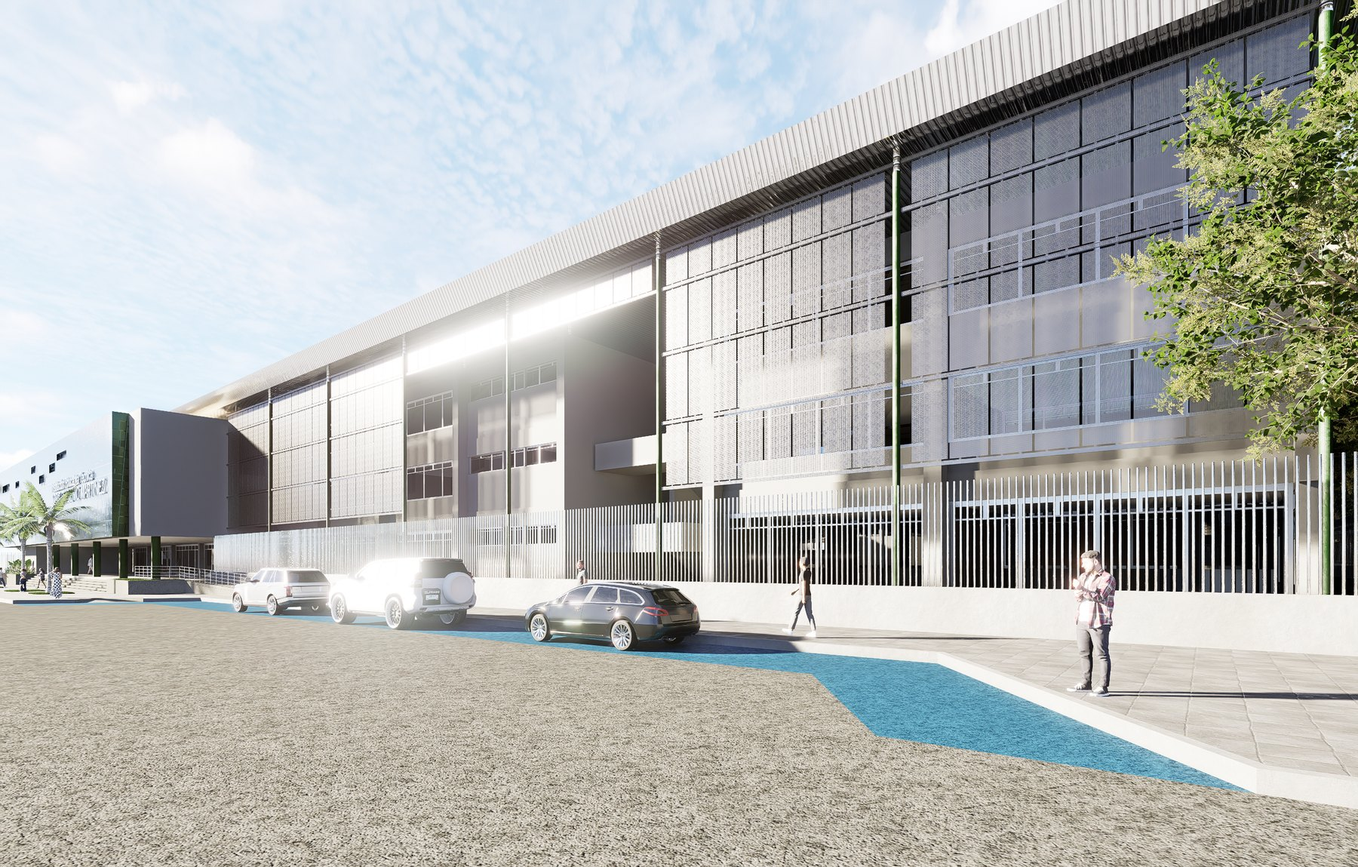
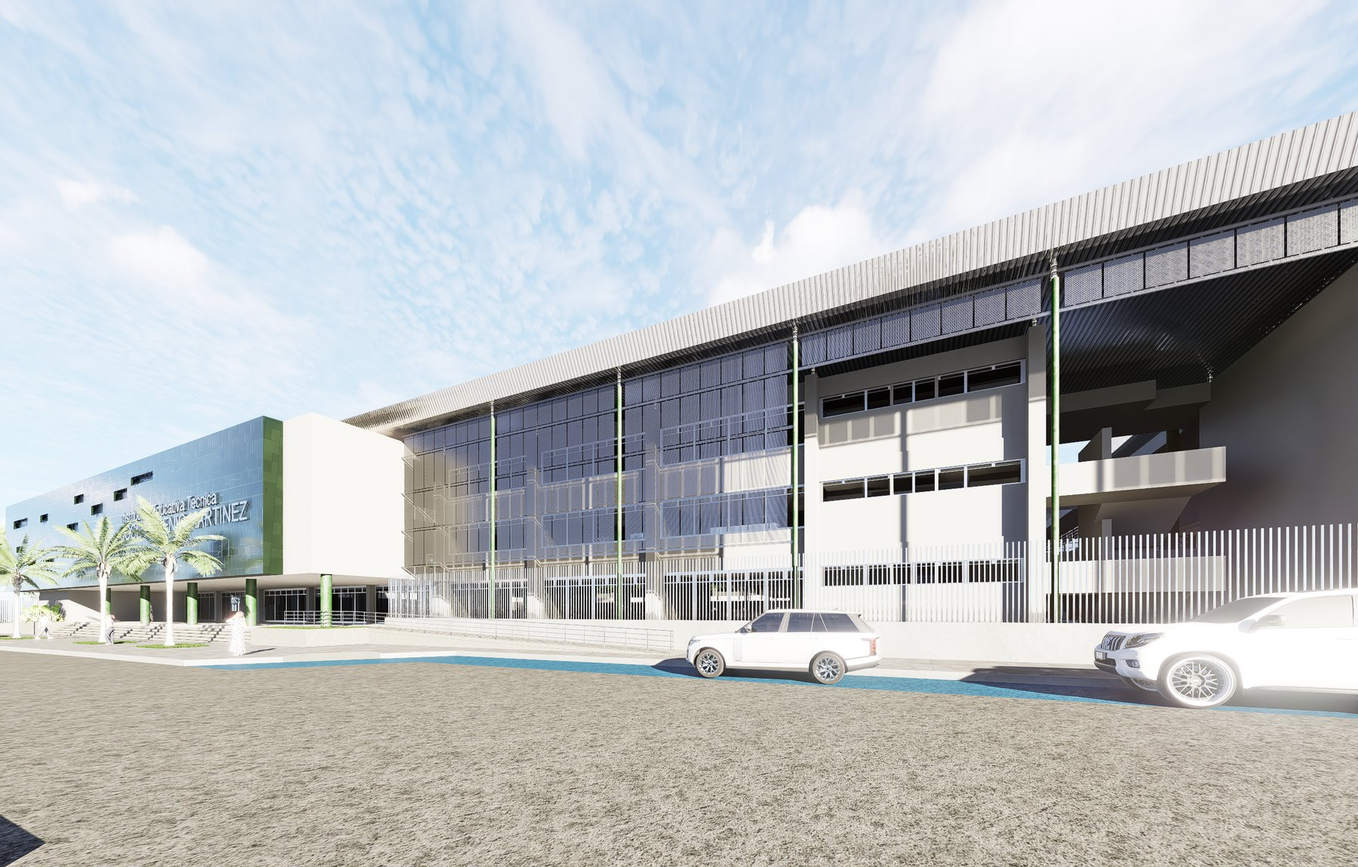
Correcciones de Ulises y carga más rápida en celular
- Proyectos: 7 destacados; Corpocesar a modelados (6.616 m²); CAC y Bomberos a diseñados;
  Multicampus en obra; numeración corrida; portadas pedidas por Ulises.
- Vivienda, Remodelación, Comercial y El arquitecto aprobadas: entran al sitemap.
- Rendimiento: dibujo y aguada del héroe después de la carga, sin salto de diseño;
  lib/lazy.ts compartido; portadas de Proyectos por cercanía; Lighthouse móvil 95–100.
- Accesibilidad 100: contraste, nombres de tarjetas, alt de logos, tabpanel.
- vercel.json: caché de fuentes e imágenes de marca, nosniff y Referrer-Policy.

diff --git a/src/lib/proyectos.ts b/src/lib/proyectos.ts
@@ -1,7 +1,9 @@
 /**
  * Proyectos de Galezo Studio para la página /proyectos, tal cual el "portafolio final" de Ulises (2026-11-09):
- * mismo orden y número, misma sección (categoría) y la ficha de cada uno (ubicación, contratación, año, área,
- * estado y descripción). En los textos solo se corrigieron tildes y erratas evidentes.
+ * misma sección (categoría) y la ficha de cada uno (ubicación, contratación, año, área, estado y descripción).
+ * En los textos solo se corrigieron tildes y erratas evidentes. Correcciones de Ulises (2026-11-12): Corpocesar pasa a
+ * modelados (6.616 m²), el CAC y la Estación de Bomberos a diseñados, Multicampus sigue en obra. Dentro de cada sección
+ * van por año, como el portafolio, y la numeración es corrida (1 a 37).
  * Imágenes en src/assets/proyectos/<slug>/NN-obra|render|antes.jpg (la primera es la portada): las del portafolio,
  * y para los proyectos que ya estaban, las de la carpeta PROYECTOS 2.
  *
@@ -54,45 +56,44 @@ export const proyectos: Proyecto[] = [
   { n: 8, slug: 'corales', name: 'Pórtico Conjunto Residencial Los Corales', tipo: 'Acceso de conjunto', cat: 'construido', estado: 'Diseñado / Construido', city: 'Valledupar, Cesar', client: 'Unidad Inmobiliaria Los Corales', year: '2023', m2: '64', what: 'Demolición y construcción de un nuevo pórtico de acceso vehicular y peatonal para el Conjunto Residencial Cerrado Los Corales. Nuevo diseño aporticado contemporáneo, construcción de mampostería, instalación de portones nuevos y eléctricos, remodelación de la garita de vigilancia, instalación de luminarias, adoquines, jardines y fachaletas en muro acordes a las viviendas del conjunto. Construido por mi empresa.' },
   { n: 9, slug: 'mirador', name: 'Mirador al Monumento del Santo Eccehomo', tipo: 'Espacio público', cat: 'construido', estado: 'Diseñado / Construido', city: 'Valledupar, Cesar', client: 'Gobernación del Cesar', year: '2023', m2: '1.988', what: 'Diseño arquitectónico y ornamental para terminar la obra del mirador al monumento Santo Eccehomo dentro del polígono de área sustraída del cerro, ya que este se encontraba abandonado en etapa de obra gris desde el año 2008.' },
   { n: 10, slug: 'jose-eugenio', name: 'Institución Educativa José Eugenio Martínez', tipo: 'Colegio', cat: 'construido', estado: 'Diseñado / Construido', city: 'Valledupar, Cesar', client: 'Gobernación del Cesar', year: '2024', m2: '15.097', what: claustro('la Institución Educativa José Eugenio Martínez') },
-  { n: 11, slug: 'corpocesar', name: 'Levantamiento de sede de Corpocesar CAVFFS', tipo: 'Levantamiento', cat: 'construido', estado: 'Levantado', city: 'Valledupar, Cesar', client: 'Consorcio Atención Silvestre', year: '2024', m2: '15.097', what: 'Levantamiento de la infraestructura existente de la sede de Corpocesar CAVFFS, para modificaciones futuras.' },
 
   // ---------- Diseñados y en construcción ----------
-  { n: 12, slug: 'vivienda-cerro', name: 'Vivienda Unifamiliar Sobre Cerro', tipo: 'Vivienda', cat: 'en-obra', estado: 'Diseñado / En construcción', city: 'Valledupar, Cesar', client: 'Particular', year: '2025', m2: '900', what: 'Diseño arquitectónico de una vivienda unifamiliar de 5 pisos, que incluye seminiveles ya que el proyecto está ubicado en un cerro. Tiene 900 m² de área construida, incluye 5 habitaciones con baños internos, estudio, oficina, gimnasio, sala, comedor, recibo, 2 zonas de parqueo, baños sociales, terrazas tipo balcón, BBQ y una ampliación de la fachada con la mitad del lote vacío para futura expansión.' },
-  { n: 13, slug: 'multicampus', name: 'Multicampus Universitario', tipo: 'Educación superior', cat: 'en-obra', estado: 'Diseñado / Construido', city: 'Codazzi, Cesar', client: 'Gobernación del Cesar', year: '2025', m2: '4.050', what: 'Diseño arquitectónico de un campus universitario de 1 piso que contiene 11 aulas de clase, 1 auditorio, 2 aulas de informática, biblioteca, zona administrativa y de servicios.' },
-  { n: 14, slug: 'ccmv-banos', name: 'Diseño de interiores baños del CCMV', tipo: 'Diseño de interiores', cat: 'en-obra', estado: 'Diseñado / Construido', city: 'Valledupar, Cesar', client: 'A Construir', year: '2025', m2: '250', what: ccmvBanos('Tipos: rústico, boho-chic, abstracto o artístico, contemporáneo-industrial y exterior.') },
-  { n: 15, slug: 'ccmv-hall', name: 'Diseño de interiores del Hall de la Fama, CCMV', tipo: 'Diseño de interiores', cat: 'en-obra', estado: 'Diseñado / Construido', city: 'Valledupar, Cesar', client: 'A Construir', year: '2025', m2: '1.200', what: 'Diseño de interiores para el Centro Cultural de la Música Vallenata del Salón de la Fama, en este estarán ubicadas las esculturas de cera de todos los artistas vallenatos. El museo se divide en 3 zonas: zona de juglares, donde están los pioneros y más antiguos con un diseño de la época; zona de los 5 grandes, donde estarán los más grandes artistas del género, con un diseño tipo disco de los 80, y zona de expansión, donde se encuentran el resto de intérpretes, con un diseño contemporáneo futurista. Aparte del diseño de pasillos que conectan las 3 zonas.' },
-  { n: 16, slug: 'coliseo', name: 'Coliseo de Tenis de Mesa', tipo: 'Escenario deportivo', cat: 'en-obra', estado: 'Diseñado / En construcción', city: 'Valledupar, Cesar', client: 'Gobernación del Cesar', year: '2025', m2: '8.959', what: 'Diseño arquitectónico y formulación de una infraestructura deportiva tipo caja de cristal para tenis de mesa, de alta calidad, sostenible, innovadora y accesible, que cumple con los requisitos técnicos y reglamentarios nacionales e internacionales para la práctica y competición de la disciplina, impulsando el desarrollo deportivo y social de la región.' },
+  { n: 11, slug: 'vivienda-cerro', name: 'Vivienda Unifamiliar Sobre Cerro', tipo: 'Vivienda', cat: 'en-obra', estado: 'Diseñado / En construcción', city: 'Valledupar, Cesar', client: 'Particular', year: '2025', m2: '900', what: 'Diseño arquitectónico de una vivienda unifamiliar de 5 pisos, que incluye seminiveles ya que el proyecto está ubicado en un cerro. Tiene 900 m² de área construida, incluye 5 habitaciones con baños internos, estudio, oficina, gimnasio, sala, comedor, recibo, 2 zonas de parqueo, baños sociales, terrazas tipo balcón, BBQ y una ampliación de la fachada con la mitad del lote vacío para futura expansión.' },
+  { n: 12, slug: 'multicampus', name: 'Multicampus Universitario', tipo: 'Educación superior', cat: 'en-obra', estado: 'Diseñado / En construcción', city: 'Codazzi, Cesar', client: 'Gobernación del Cesar', year: '2025', m2: '4.050', what: 'Diseño arquitectónico de un campus universitario de 1 piso que contiene 11 aulas de clase, 1 auditorio, 2 aulas de informática, biblioteca, zona administrativa y de servicios.' },
+  { n: 13, slug: 'ccmv-banos', name: 'Diseño de interiores baños del CCMV', tipo: 'Diseño de interiores', cat: 'en-obra', estado: 'Diseñado / Construido', city: 'Valledupar, Cesar', client: 'A Construir', year: '2025', m2: '250', what: ccmvBanos('Tipos: rústico, boho-chic, abstracto o artístico, contemporáneo-industrial y exterior.') },
+  { n: 14, slug: 'ccmv-hall', name: 'Diseño de interiores del Hall de la Fama, CCMV', tipo: 'Diseño de interiores', cat: 'en-obra', estado: 'Diseñado / Construido', city: 'Valledupar, Cesar', client: 'A Construir', year: '2025', m2: '1.200', what: 'Diseño de interiores para el Centro Cultural de la Música Vallenata del Salón de la Fama, en este estarán ubicadas las esculturas de cera de todos los artistas vallenatos. El museo se divide en 3 zonas: zona de juglares, donde están los pioneros y más antiguos con un diseño de la época; zona de los 5 grandes, donde estarán los más grandes artistas del género, con un diseño tipo disco de los 80, y zona de expansión, donde se encuentran el resto de intérpretes, con un diseño contemporáneo futurista. Aparte del diseño de pasillos que conectan las 3 zonas.' },
+  { n: 15, slug: 'coliseo', name: 'Coliseo de Tenis de Mesa', tipo: 'Escenario deportivo', cat: 'en-obra', estado: 'Diseñado / En construcción', city: 'Valledupar, Cesar', client: 'Gobernación del Cesar', year: '2025', m2: '8.959', what: 'Diseño arquitectónico y formulación de una infraestructura deportiva tipo caja de cristal para tenis de mesa, de alta calidad, sostenible, innovadora y accesible, que cumple con los requisitos técnicos y reglamentarios nacionales e internacionales para la práctica y competición de la disciplina, impulsando el desarrollo deportivo y social de la región.' },
 
   // ---------- Diseñados ----------
-  { n: 17, slug: 'museo-juglares', name: 'Museo de Juglares', tipo: 'Cultural', cat: 'disenado', estado: 'Diseñado', city: 'Urumita, La Guajira', client: 'Particular', year: '2021', m2: '1.600', what: 'Diseño arquitectónico de un museo para exposiciones de la cultura vallenata, incluye lobby, zona de exposición, auditorio, cafetería y baños.' },
-  { n: 18, slug: 'plazas-el-banco', name: 'Renovación urbana de las plazas de la Catedral, José Barros y Telecom', tipo: 'Espacio público', cat: 'disenado', estado: 'Diseñado', city: 'El Banco, Magdalena', client: banco, year: '2022', m2: '2.400', what: `Rediseño de plazas en El Banco, Magdalena. ${plazas}` },
-  { n: 19, slug: 'plaza-roja', name: 'Renovación urbana de la Plaza Roja', tipo: 'Espacio público', cat: 'disenado', estado: 'Diseñado', city: 'El Banco, Magdalena', client: banco, year: '2022', m2: '2.000', what: `Rediseño de plaza en El Banco, Magdalena. ${plazas}` },
-  { n: 20, slug: 'plaza-mama-suraya', name: 'Renovación urbana de la Plaza Mamá Suraya', tipo: 'Espacio público', cat: 'disenado', estado: 'Diseñado', city: 'El Banco, Magdalena', client: banco, year: '2022', m2: '2.500', what: `Rediseño de plaza en El Banco, Magdalena. ${plazas}` },
-  { n: 21, slug: 'muelle-chalupas', name: 'Renovación urbana del Muelle de Chalupas', tipo: 'Espacio público', cat: 'disenado', estado: 'Diseñado', city: 'El Banco, Magdalena', client: banco, year: '2022', m2: '545', what: `Rediseño del espacio público del muelle de chalupas en El Banco, Magdalena. ${plazas}` },
-  { n: 22, slug: 'vivienda-dibulla', name: 'Vivienda Unifamiliar de 3 pisos', tipo: 'Vivienda', cat: 'disenado', estado: 'Diseñado', city: 'Dibulla, La Guajira', client: 'Particular', year: '2022', m2: '500', what: 'Diseño arquitectónico de una vivienda unifamiliar de 3 pisos.' },
-  { n: 23, slug: 'zona-social-valleyville', name: 'Zona Social Campestre Valleyville', tipo: 'Vivienda campestre', cat: 'disenado', estado: 'Diseñado', city: 'San Diego, Cesar', client: 'Vive Ámbar', year: '2023', m2: '1.200', what: 'Diseño arquitectónico de un predio social campestre que incluye habitaciones, quiosco, piscina y BBQ.' },
-  { n: 24, slug: 'complejo-tamalameque', name: 'Complejo Recreo-Deportivo', tipo: 'Escenario deportivo', cat: 'disenado', estado: 'Diseñado', city: 'Tamalameque, Cesar', client: 'HRS Ingeniería', year: '2023', m2: '30.200', what: 'Diseño arquitectónico de un complejo recreo-deportivo interdisciplinario. Incluye 2 canchas multifuncionales, 1 cancha de fútbol, gimnasio biosaludable, plaza de eventos, plazoleta gastronómica, parques infantiles y senderos ecológicos.' },
-  { n: 25, slug: 'infraestructura-educativa-tipo', name: 'Infraestructura Educativa Tipo', tipo: 'Colegio', cat: 'disenado', estado: 'Diseñado', city: 'Sin ubicación exacta', client: 'Particular', year: '2024', m2: '2.200', what: 'Diseño arquitectónico de un bloque tipo para replicar en instituciones educativas. Diseño contemporáneo de 2 pisos con capacidad para 11 aulas, zona administrativa y de servicios.' },
-  { n: 26, slug: 'centro-integral-el-plan', name: 'Centro Integral Administrativo', tipo: 'Institucional', cat: 'disenado', estado: 'Diseñado', city: 'El Plan, La Jagua del Pilar', client: 'HRS Ingeniería', year: '2024', m2: '800', what: 'Diseño arquitectónico de centro integral administrativo de 1 piso que contiene área de exposiciones temporales, salones de música, auditorio, biblioteca, zona administrativa e inspección de policía.' },
-  { n: 27, slug: 'complejo-padel', name: 'Complejo de Pádel', tipo: 'Escenario deportivo', cat: 'disenado', estado: 'Diseñado', city: 'Valledupar, Cesar', client: 'HRS Ingeniería', year: '2024', m2: '1.400', what: 'Diseño arquitectónico de un complejo recreodeportivo de pádel. Incluye 4 canchas, 2 cubiertas y 2 sin cubierta, bar deportivo, baños, taquilla - venta y parqueaderos.' },
-  { n: 28, slug: 'gasolineras-terpel', name: 'Gasolineras Terpel', tipo: 'Comercial', cat: 'disenado', estado: 'Diseñado', city: 'Valledupar, Cesar', client: 'Particular', year: '2024', m2: '3.000', what: 'Diseño arquitectónico de varias gasolineras en la ciudad de Valledupar, teniendo en cuenta los diseños de los módulos, estructura y cubierta Terpel.' },
+  { n: 16, slug: 'museo-juglares', name: 'Museo de Juglares', tipo: 'Cultural', cat: 'disenado', estado: 'Diseñado', city: 'Urumita, La Guajira', client: 'Particular', year: '2021', m2: '1.600', what: 'Diseño arquitectónico de un museo para exposiciones de la cultura vallenata, incluye lobby, zona de exposición, auditorio, cafetería y baños.' },
+  { n: 17, slug: 'plazas-el-banco', name: 'Renovación urbana de las plazas de la Catedral, José Barros y Telecom', tipo: 'Espacio público', cat: 'disenado', estado: 'Diseñado', city: 'El Banco, Magdalena', client: banco, year: '2022', m2: '2.400', what: `Rediseño de plazas en El Banco, Magdalena. ${plazas}` },
+  { n: 18, slug: 'plaza-roja', name: 'Renovación urbana de la Plaza Roja', tipo: 'Espacio público', cat: 'disenado', estado: 'Diseñado', city: 'El Banco, Magdalena', client: banco, year: '2022', m2: '2.000', what: `Rediseño de plaza en El Banco, Magdalena. ${plazas}` },
+  { n: 19, slug: 'plaza-mama-suraya', name: 'Renovación urbana de la Plaza Mamá Suraya', tipo: 'Espacio público', cat: 'disenado', estado: 'Diseñado', city: 'El Banco, Magdalena', client: banco, year: '2022', m2: '2.500', what: `Rediseño de plaza en El Banco, Magdalena. ${plazas}` },
+  { n: 20, slug: 'muelle-chalupas', name: 'Renovación urbana del Muelle de Chalupas', tipo: 'Espacio público', cat: 'disenado', estado: 'Diseñado', city: 'El Banco, Magdalena', client: banco, year: '2022', m2: '545', what: `Rediseño del espacio público del muelle de chalupas en El Banco, Magdalena. ${plazas}` },
+  { n: 21, slug: 'vivienda-dibulla', name: 'Vivienda Unifamiliar de 3 pisos', tipo: 'Vivienda', cat: 'disenado', estado: 'Diseñado', city: 'Dibulla, La Guajira', client: 'Particular', year: '2022', m2: '500', what: 'Diseño arquitectónico de una vivienda unifamiliar de 3 pisos.' },
+  { n: 22, slug: 'zona-social-valleyville', name: 'Zona Social Campestre Valleyville', tipo: 'Vivienda campestre', cat: 'disenado', estado: 'Diseñado', city: 'San Diego, Cesar', client: 'Vive Ámbar', year: '2023', m2: '1.200', what: 'Diseño arquitectónico de un predio social campestre que incluye habitaciones, quiosco, piscina y BBQ.' },
+  { n: 23, slug: 'complejo-tamalameque', name: 'Complejo Recreo-Deportivo', tipo: 'Escenario deportivo', cat: 'disenado', estado: 'Diseñado', city: 'Tamalameque, Cesar', client: 'HRS Ingeniería', year: '2023', m2: '30.200', what: 'Diseño arquitectónico de un complejo recreo-deportivo interdisciplinario. Incluye 2 canchas multifuncionales, 1 cancha de fútbol, gimnasio biosaludable, plaza de eventos, plazoleta gastronómica, parques infantiles y senderos ecológicos.' },
+  { n: 24, slug: 'infraestructura-educativa-tipo', name: 'Infraestructura Educativa Tipo', tipo: 'Colegio', cat: 'disenado', estado: 'Diseñado', city: 'Sin ubicación exacta', client: 'Particular', year: '2024', m2: '2.200', what: 'Diseño arquitectónico de un bloque tipo para replicar en instituciones educativas. Diseño contemporáneo de 2 pisos con capacidad para 11 aulas, zona administrativa y de servicios.' },
+  { n: 25, slug: 'centro-integral-el-plan', name: 'Centro Integral Administrativo', tipo: 'Institucional', cat: 'disenado', estado: 'Diseñado', city: 'El Plan, La Jagua del Pilar', client: 'HRS Ingeniería', year: '2024', m2: '800', what: 'Diseño arquitectónico de centro integral administrativo de 1 piso que contiene área de exposiciones temporales, salones de música, auditorio, biblioteca, zona administrativa e inspección de policía.' },
+  { n: 26, slug: 'complejo-padel', name: 'Complejo de Pádel', tipo: 'Escenario deportivo', cat: 'disenado', estado: 'Diseñado', city: 'Valledupar, Cesar', client: 'HRS Ingeniería', year: '2024', m2: '1.400', what: 'Diseño arquitectónico de un complejo recreodeportivo de pádel. Incluye 4 canchas, 2 cubiertas y 2 sin cubierta, bar deportivo, baños, taquilla - venta y parqueaderos.' },
+  { n: 27, slug: 'gasolineras-terpel', name: 'Gasolineras Terpel', tipo: 'Comercial', cat: 'disenado', estado: 'Diseñado', city: 'Valledupar, Cesar', client: 'Particular', year: '2024', m2: '3.000', what: 'Diseño arquitectónico de varias gasolineras en la ciudad de Valledupar, teniendo en cuenta los diseños de los módulos, estructura y cubierta Terpel.' },
+  { n: 28, slug: 'cac-el-banco', name: 'Centro de Atención al Ciudadano', tipo: 'Institucional', cat: 'disenado', estado: 'Diseñado', city: 'El Banco, Magdalena', client: 'Particular', year: '2024', m2: '3.000', what: 'Modelado 3D arquitectónico, estructural, renderizado y elaboración de la edificación de 3 pisos del CAC en El Banco, Magdalena.' },
   { n: 29, slug: 'umng-becerril', name: 'Campus de la Universidad Militar Nueva Granada', tipo: 'Educación superior', cat: 'disenado', estado: 'Diseñado', city: 'Becerril, Cesar', client: 'HRS Ingeniería', year: '2025', m2: '30.000', what: 'Diseño arquitectónico y formulación de una nueva infraestructura para la Universidad Militar Nueva Granada en Becerril, teniendo en cuenta los espacios requeridos por el plantel y los materiales característicos de sus sedes. Dos pisos donde la volumetría del edificio responde a un esquema lineal, que permite articular patios internos, facilitar la ventilación cruzada y promover el aprovechamiento de la luz natural.' },
   { n: 30, slug: 'sendero-cerro-estados-unidos', name: 'Sendero Peatonal y Mirador en Cerro Estados Unidos', tipo: 'Espacio público', cat: 'disenado', estado: 'Diseñado', city: 'Becerril, Cesar', client: 'Particular', year: '2025', m2: '600', what: 'Diseño en cerro de sendero peatonal empedrado, y mirador con letras ornamentales.' },
+  { n: 31, slug: 'bomberos-bosconia', name: 'Estación de Bomberos', tipo: 'Institucional', cat: 'disenado', estado: 'Diseñado', city: 'Bosconia, Cesar', client: 'HRS Ingeniería', year: '2026', m2: '1.695', what: 'Modelado 3D arquitectónico y estructural de una estación de bomberos tipo II, modificación de espacios internos y renderizado.' },
 
   // ---------- Modelados y renderizados ----------
-  { n: 31, slug: 'auditorio-el-molino', name: 'Auditorio', tipo: 'Cultural', cat: 'modelado', estado: 'Modelado / Renderizado', city: 'El Molino, La Guajira', client: 'Marbal Ingeniería SAS', year: '2021', m2: '400', what: 'Modelado 3D y renderizado de un auditorio para eventos en El Molino, La Guajira.' },
-  { n: 32, slug: 'coliseo-la-jagua', name: 'Coliseo Deportivo', tipo: 'Escenario deportivo', cat: 'modelado', estado: 'Modelado / Renderizado', city: 'La Jagua de Ibirico', client: 'Marbal Ingeniería SAS', year: '2021', m2: '20.000', what: 'Modelado 3D arquitectónico y renderizado de un coliseo para emplazamiento, plaza y parqueaderos.' },
-  { n: 33, slug: 'condominio-eeuu', name: 'Condominio Residencial en EE. UU.', tipo: 'Vivienda', cat: 'modelado', estado: 'Modelado / Renderizado', city: 'Estados Unidos', client: 'Particular', year: '2022', m2: '32.000', what: 'Modelado 3D del diseño arquitectónico y renderizado del proyecto.' },
-  { n: 34, slug: 'hospital-manaure', name: 'Hospital José Antonio Socarrás Sánchez', tipo: 'Salud', cat: 'modelado', estado: 'Modelado / Renderizado', city: 'Manaure, Cesar', client: 'Gobernación del Cesar', year: '2023', m2: '3.200', what: 'Modelado 3D del diseño arquitectónico, redistribución de espacios, planificación de niveles internos para acople a topografía del predio y renderizado del proyecto.' },
-  { n: 35, slug: 'cac-el-banco', name: 'Centro de Atención al Ciudadano', tipo: 'Institucional', cat: 'modelado', estado: 'Diseñado', city: 'El Banco, Magdalena', client: 'Particular', year: '2024', m2: '3.000', what: 'Modelado 3D arquitectónico, estructural, renderizado y elaboración de la edificación de 3 pisos del CAC en El Banco, Magdalena.' },
-  { n: 36, slug: 'zona-social-estrato-6', name: 'Zona Social de Vivienda Unifamiliar Estrato 6', tipo: 'Vivienda', cat: 'modelado', estado: 'Modelado / Renderizado', city: 'Valledupar, Cesar', client: 'Particular', year: '2025', m2: '300', what: 'Modelado 3D, rediseños de espacios y renderizado de la zona social de la vivienda.' },
-  { n: 37, slug: 'bomberos-bosconia', name: 'Estación de Bomberos', tipo: 'Institucional', cat: 'modelado', estado: 'Diseñado', city: 'Bosconia, Cesar', client: 'HRS Ingeniería', year: '2026', m2: '1.695', what: 'Modelado 3D arquitectónico y estructural de una estación de bomberos tipo II, modificación de espacios internos y renderizado.' },
+  { n: 32, slug: 'auditorio-el-molino', name: 'Auditorio', tipo: 'Cultural', cat: 'modelado', estado: 'Modelado / Renderizado', city: 'El Molino, La Guajira', client: 'Marbal Ingeniería SAS', year: '2021', m2: '400', what: 'Modelado 3D y renderizado de un auditorio para eventos en El Molino, La Guajira.' },
+  { n: 33, slug: 'coliseo-la-jagua', name: 'Coliseo Deportivo', tipo: 'Escenario deportivo', cat: 'modelado', estado: 'Modelado / Renderizado', city: 'La Jagua de Ibirico', client: 'Marbal Ingeniería SAS', year: '2021', m2: '20.000', what: 'Modelado 3D arquitectónico y renderizado de un coliseo para emplazamiento, plaza y parqueaderos.' },
+  { n: 34, slug: 'condominio-eeuu', name: 'Condominio Residencial en EE. UU.', tipo: 'Vivienda', cat: 'modelado', estado: 'Modelado / Renderizado', city: 'Estados Unidos', client: 'Particular', year: '2022', m2: '32.000', what: 'Modelado 3D del diseño arquitectónico y renderizado del proyecto.' },
+  { n: 35, slug: 'hospital-manaure', name: 'Hospital José Antonio Socarrás Sánchez', tipo: 'Salud', cat: 'modelado', estado: 'Modelado / Renderizado', city: 'Manaure, Cesar', client: 'Gobernación del Cesar', year: '2023', m2: '3.200', what: 'Modelado 3D del diseño arquitectónico, redistribución de espacios, planificación de niveles internos para acople a topografía del predio y renderizado del proyecto.' },
+  { n: 36, slug: 'corpocesar', name: 'Levantamiento de sede de Corpocesar CAVFFS', tipo: 'Levantamiento', cat: 'modelado', estado: 'Levantado', city: 'Valledupar, Cesar', client: 'Consorcio Atención Silvestre', year: '2024', m2: '6.616', what: 'Levantamiento de la infraestructura existente de la sede de Corpocesar CAVFFS, para modificaciones futuras.' },
+  { n: 37, slug: 'zona-social-estrato-6', name: 'Zona Social de Vivienda Unifamiliar Estrato 6', tipo: 'Vivienda', cat: 'modelado', estado: 'Modelado / Renderizado', city: 'Valledupar, Cesar', client: 'Particular', year: '2025', m2: '300', what: 'Modelado 3D, rediseños de espacios y renderizado de la zona social de la vivienda.' },
 ];
 
 /**
- * Destacados (estrella): los proyectos más grandes y más reconocidos diseñados por Ulises (pedido del usuario, 2026-11-12).
- * Criterio: obra pública de gran escala o emblemática, ya construida o en obra, y los diseños de mayor área. No entran
- * los modelados y renderizados (no son diseño propio). Ulises puede ajustar la lista: es solo esta línea.
+ * Destacados (estrella): obra pública de gran escala o emblemática, ya construida o en obra (pedido del usuario, 2026-11-12).
+ * Ulises quitó el Complejo Recreo-Deportivo y el campus de la UMNG (solo diseñados). Se ajusta en esta lista.
  */
 export const DESTACADOS = new Set([
   'parque-de-la-vida', // 40.000 m², construido
@@ -102,8 +103,6 @@ export const DESTACADOS = new Set([
   'casd',
   'jose-eugenio',
   'coliseo', // 8.959 m², en construcción
-  'complejo-tamalameque', // 30.200 m²
-  'umng-becerril', // 30.000 m²
 ]);
 export const esDestacado = (slug: string) => DESTACADOS.has(slug);
 

diff --git a/src/lib/lazy.ts b/src/lib/lazy.ts
@@ -1,0 +1,26 @@
+/**
+ * Imágenes diferidas por cercanía (protocolo de LazyImg): <img src=PIXEL data-lz="" data-src data-srcset>.
+ * La carga diferida del navegador no basta: en redes lentas Chrome adelanta todo lo que esté a ~2.500 px.
+ * Cada sección pide sus imágenes cuando está a menos de media pantalla; las data-lz="later" (otras diapositivas),
+ * después de que la página terminó de cargar y de a una. Módulo: se ejecuta una sola vez por página.
+ */
+const load = (im: HTMLImageElement) => {
+  if (im.dataset.srcset) im.srcset = im.dataset.srcset;
+  im.src = im.dataset.src!;
+  im.removeAttribute('data-lz');
+};
+const fill = (root: Element) => {
+  root.querySelectorAll<HTMLImageElement>('img[data-lz=""]').forEach(load);
+  const rest = [...root.querySelectorAll<HTMLImageElement>('img[data-lz="later"]')];
+  const later = () => rest.forEach((im, i) => setTimeout(() => load(im), 1200 + i * 300));
+  if (document.readyState === 'complete') later();
+  else addEventListener('load', later, { once: true });
+};
+const roots = new Set<Element>();
+document.querySelectorAll('img[data-lz]').forEach((im) => roots.add(im.closest('section') || document.body));
+const io = new IntersectionObserver(
+  (es) => es.forEach((e) => { if (e.isIntersecting) { fill(e.target); io.unobserve(e.target); } }),
+  { rootMargin: '60% 0px' },
+);
+roots.forEach((r) => io.observe(r));
+export {};

diff --git a/src/lib/servicios.ts b/src/lib/servicios.ts
@@ -11,8 +11,8 @@ export interface Servicio {
   own?: boolean;
 }
 export const servicios: Servicio[] = [
-  { slug: 'diseno-de-vivienda', id: 'vivienda', title: 'Diseño de vivienda', short: 'Vivienda', line: 'Casas campestres y urbanas', own: true },
-  { slug: 'remodelacion', id: 'remodelacion', title: 'Remodelación', short: 'Remodelación', line: 'Rediseño, ampliación y mejora de espacios', own: true },
-  { slug: 'comercial-e-institucional', id: 'comercial', title: 'Comercial e institucional', short: 'Comercial', line: 'Locales, colegios, escenarios deportivos y edificios públicos', own: true },
+  { slug: 'diseno-de-vivienda', id: 'vivienda', title: 'Diseño de vivienda', short: 'Vivienda', line: 'Casas campestres y urbanas', own: true, ready: true },
+  { slug: 'remodelacion', id: 'remodelacion', title: 'Remodelación', short: 'Remodelación', line: 'Rediseño, ampliación y mejora de espacios', own: true, ready: true },
+  { slug: 'comercial-e-institucional', id: 'comercial', title: 'Comercial e institucional', short: 'Comercial', line: 'Locales, colegios, escenarios deportivos y edificios públicos', own: true, ready: true },
   { slug: 'proyectos-ejecutivos', id: 'ejecutivo', title: 'Proyectos ejecutivos', short: 'Ejecutivos', line: 'Arquitectura e ingenierías en un solo paquete', own: true },
 ];

diff --git a/src/pages/sitemap-paginas.xml.ts b/src/pages/sitemap-paginas.xml.ts
@@ -3,8 +3,8 @@ import { SITE } from '../lib/seo';
 import { servicios } from '../lib/servicios';
 
 // lastmod real: fecha de la última compilación de cada página indexable
-// Solo páginas indexables: el inicio y cada servicio marcado como listo (ready) en lib/servicios.ts
-const paginas = [{ path: '', priority: '1.0' }, ...servicios.filter((s) => s.ready).map((s) => ({ path: `/servicios/${s.slug}`, priority: '0.8' }))];
+// Solo páginas indexables: el inicio, cada servicio marcado como listo (ready) en lib/servicios.ts y El arquitecto (aprobada 2026-11-12)
+const paginas = [{ path: '', priority: '1.0' }, ...servicios.filter((s) => s.ready).map((s) => ({ path: `/servicios/${s.slug}`, priority: '0.8' })), { path: '/arquitecto', priority: '0.6' }];
 
 export const GET: APIRoute = () => {
   const now = new Date().toISOString();

diff --git a/docs/decisiones.md b/docs/decisiones.md
@@ -491,3 +491,24 @@ Por hacer cuando respondan: proceso en 9 etapas (inicio), fachada frontal en viv
 ## Proyectos destacados (2026-11-12)
 - Estrella dorada en la tarjeta (placa blanca con corte a 45°), filtro "★ Destacados" y "★ Destacado" en la ficha. Lista en src/lib/proyectos.ts (DESTACADOS): Parque de la Vida, Mirador Ecce Homo, los cuatro colegios (Instpecam, Alfonso López, CASD, José Eugenio), Coliseo de Tenis de Mesa, Complejo Tamalameque y UMNG Becerril. Criterio: los más grandes o emblemáticos diseñados por Ulises; sin modelados. El portafolio final habla de "destacados y reconocidos": si Ulises tiene su lista, se cambia en esa línea. Evento project_filter con filter = destacados.
 - Carpeta del proyecto: ~/Desktop/sitio webs/galezo-studio. En el Escritorio quedó una carpeta-ancla "galezo-studio" con un LEEME.txt (solo para la sesión vieja de Claude); se puede borrar.
+
+## Correcciones de Ulises al portafolio y páginas aprobadas (2026-11-12)
+- Destacados: salen el Complejo Recreo-Deportivo y el campus de la UMNG ("estos no son destacados"). Quedan 7: Parque de la Vida, Mirador, los cuatro colegios y el Coliseo.
+- Corpocesar pasa a "Modelados y renderizados" ("me equivoqué en portafolio") y su área es 6.616 m² (no 15.097). Estado de la ficha: "Levantado".
+- CAC El Banco y Estación de Bomberos pasan a "Diseñados" (los diseñó Ulises).
+- Multicampus sigue en obra: estado "Diseñado / En construcción". En Proyectos del inicio y ejecutivos pasa a "en obra": "Cinco proyectos que diseñamos: tres ya construidos y dos en obra".
+- Numeración corrida 1 a 37 por sección y año (como el portafolio); cambia el número de los proyectos movidos y de los que quedaban después.
+- Portadas (capturas de Ulises): Estación de Bomberos, baños del CCMV y Hall de la Fama toman su 2.ª imagen; José Eugenio toma la foto de obra (antes la 5.ª).
+- Título de El arquitecto: se queda "La arquitectura es para las personas".
+- Aprobadas: Vivienda, Remodelación, Comercial e institucional (ready) y El arquitecto (sin noindex propio). Entran al sitemap; se indexan cuando se quite PUBLIC_PREVIEW (falta GA4).
+- Proyectos ejecutivos sigue sin planos de ingenierías (no hay recursos). Testimonios, después.
+- PENDIENTE (Ulises): estado de los dos del CCMV (en "en construcción" con ficha "Diseñado / Construido"). Contacto: correo corporativo y WhatsApp Business. ID de GA4.
+
+## Rendimiento: lo que no se ve no se pide (2026-11-12)
+- Lighthouse móvil (local, build de producción): inicio 82 → 98, Comercial 88 → 95, Proyectos 87 → 95; el resto 97–100. Escritorio 100 en todas. Accesibilidad y buenas prácticas 100 en todas. SEO 100 en las indexables (63–66 solo en las que siguen con noindex propio: Proyectos, Ejecutivos, Contacto).
+- Causa: la carga diferida del navegador adelanta lo que está a ~2.500 px, y el simulador de Lighthouse cuenta todo lo pedido antes del LCP.
+- Héroe del inicio: el dibujo y la aguada (no se ven hasta los 2,8 s y 4 s) se piden 0,6 s después de la carga (o a los 2,5 s si la red es lenta); la caja de la lámina se muestra cuando ya está en su lugar (CLS 0,064 → 0,015). Sin JS, <noscript>.
+- lib/lazy.ts: lógica compartida de LazyImg (protocolo <img data-lz data-src data-srcset>); las "later" esperan la carga de la página. LazyImg fija la proporción mientras está el píxel. Aplicado en Entregable, CasaNiveles, diapositivas 2 y 3 del héroe de Comercial, Retos y logos de Para quién.
+- Proyectos: solo la primera portada de entrada (fetchpriority alta); las demás cuando su tarjeta está a una pantalla; la otra cara solo con mouse y después de la carga. Portadas a calidad 72.
+- Accesibilidad: contraste del número en el filtro activo y en la tarjeta de Contacto; nombre de las tarjetas desde su texto visible; logos de clientes con alt vacío (el nombre va al lado); panel de Ejecutivos de article a div (role tabpanel).
+- vercel.json: caché de 30 días para /fonts, 7 días para /brand y /og; nosniff y Referrer-Policy.
